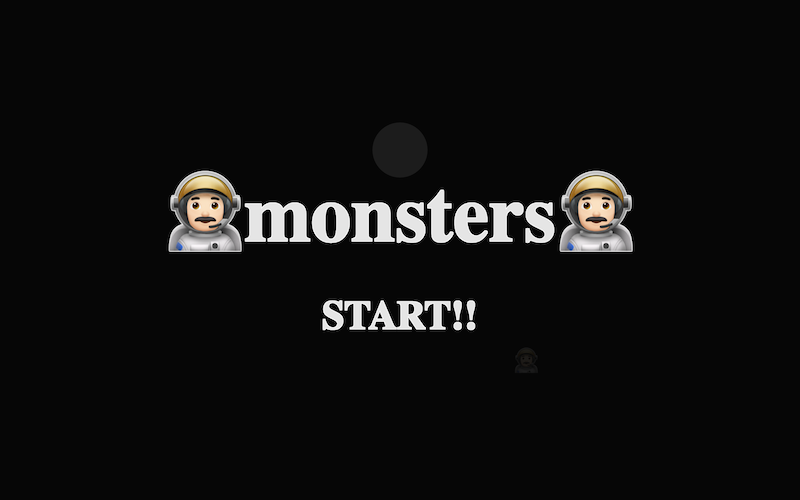
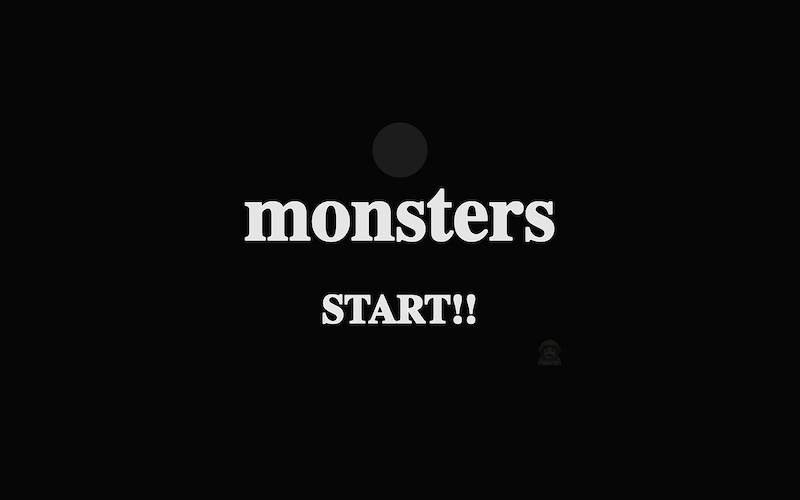
day 77

Changed region(s): [[0.1875, 0.33, 0.8125, 0.51], [0.4062, 0.57, 0.5938, 0.66]]

diff --git a/day077/sketch.js b/day077/sketch.js
@@ -1,5 +1,10 @@
 console.log('ready to sketch');
 
+//game starts
+const start = document.getElementById('start');
+const op = document.querySelector('.op');
+
+
 let backgroundColor = 6;
 let backgroundColorRate = 50;
 let totalScore = 0;
@@ -38,7 +43,10 @@ function createMonsters() {
 
 function setup() {
   createCanvas(windowWidth, windowHeight);
-  createMonsters();
+  start.addEventListener('click', function () {
+    op.classList.add('start');
+    createMonsters();
+  });
 }
 
 function draw() {
@@ -47,43 +55,46 @@ function draw() {
   stroke(6);
   fill(totalScoreColorR, totalScoreColorG, totalScoreColorB);
 
+  text(`Score:${totalScore}`, 20, 50);
+
   // controll player
   player.show();
 
-
-  backgroundColor = 198;
   for (monster of monsters) {
     monster.show();
     monster.move();
   }
 
   // beams to balls
-  // for (beam of beams) {
-  //   beam.shoot();
-  //   for (let i = 0; i < monsters.length; i++) {
-  //     monsters[i].hitBox(beam.x, beam.y);
-  //   }
+
+  for (let i = 0; i < beams.length; i++) {
+    beams[i].shoot(random(255));
+
+    for (let k = 0; k < monsters.length; k++) {
+      monsters[k].hitBox(beams[i].x, beams[i].y);
+    }
+  }
 
   // monsters to player
-  // for (monster of monsters) {
-  //   let d = dist(monster.x, monster.y, mouseX, mouseY)
-  //   if (d < monster.r) {
-  //     playerLife--
-  //     console.log(playerLife);
-  //   }
-  //   if (playerLife < 0) {
-  //     end.classList.add('ended');
-  //     displayScore.innerHTML = `Your Score: ${totalScore}`;
-  //     return dead = true;
-  //   }
+  for (monster of monsters) {
+    let dx = Math.abs(monster.x - mouseX);
+    let dy = Math.abs(monster.y - mouseY);
+    if (dx < monster.size && dy < monster.size) {
+      //   playerLife--
+      //   console.log(playerLife);
+      // }
+      // if (playerLife < 0) {
+      end.classList.add('ended');
+      displayScore.innerHTML = `Your Score: ${totalScore}`;
+      return dead = true;
+    }
+  }
 }
-// }
 
 function mousePressed() {
   beam = new Beam(
     mouseX,
     mouseY,
-    -3
   );
   beams.push(beam);
 }

diff --git a/day077/class.js b/day077/class.js
@@ -26,14 +26,27 @@ class Monster {
     this.y = this.y + this.speedY;
   }
   hitBox(againstX, againstY) {
+
+    // monster against beams 
     let dx = Math.abs(this.x - againstX);
     let dy = Math.abs(this.y - againstY);
+    if (dx < this.size && dy < this.size) {
+      if (this.size < 30) {
+        // didn't work this following code 
+        // monsters.splice(this, 1);
+        // this following code is for temporarily code to debug 
+        this.x = 0;
+        this.y = 0;
+      } else {
+        this.size--;
+        this.speedX += random(-1, 1);
+        this.speedY += random(-1, 1);
+            //   // chenge the background color when beam hit monsters
+            if (!dead) {
+              totalScore++
 
-    if (dx < this.x) {
-      this.x = -this.x;
-    }
-    if (dy < this.y) {
-      this.y = -this.y;
+        }
+      }
     }
     // let d = dist(this.x, this.y, againstX, againstY);
     // if (d < 50) {
@@ -45,31 +58,28 @@ class Monster {
     //   // totalScoreColorR = random(255);
     //   // totalScoreColorG = random(255);
     //   // totalScoreColorB = random(255);
-    //   // if (!dead) {
-    //   //   totalScore++
-    //   // }
+ 
     // }
-    if (monsters.size < 0) {
-      // explode when monsters are attacked over 60 times
-      monsters.splice(i, 1);
+    // if (monsters.size < 0) {
+    //   // explode when monsters are attacked over 60 times
+    //   monsters.splice(i, 1);
 
-      // chenge the background color when beam hit monsters
-      setTimeout(function () {
-        if (backgroundColor <= 0 || backgroundColor >= 255) {
-          backgroundColorRate = backgroundColorRate * -1;
-        }
-        backgroundColor -= backgroundColorRate;
-      }, 1000);
-    }
+
   }
 }
 
 const beams = [];
 class Beam {
-  constructor(x, y, speed) {
+  constructor(x, y) {
     this.x = x;
     this.y = y;
-    this.speed = speed;
+    this.speed = -3;
+  }
+  shoot() {
+    stroke(6);
+    fill(random(255));
+    ellipse(this.x, this.y, 5, 20);
+    this.y += this.speed;
   }
 }
 

diff --git a/day077/index.html b/day077/index.html
@@ -6,7 +6,7 @@
   <meta http-equiv="X-UA-Compatible" content="IE=edge">
   <meta name="viewport" content="width=device-width, initial-scale=1.0">
 
-  <title>1_4_monsters</title>
+  <title>1_5_colorBeam4</title>
 
   <link rel="stylesheet" href="style.css" />
 
@@ -15,9 +15,9 @@
   <!-- title -->
   <meta name="twitter:title" content="kusayari" />
   <!-- day -->
-  <meta name="twitter:description" content="4th JAN / Day 76 - monsters -" />
+  <meta name="twitter:description" content="5th JAN / Day 77 - colorBeam4 -" />
   <!-- url -->
-  <meta name="twitter:image" content="https://nozomiishii.github.io/codeLab/day076/day076.png" />
+  <meta name="twitter:image" content="https://nozomiishii.github.io/codeLab/day077/day077.png" />
   <meta name="twitter:card" content="summary_large_image" />
 
   <script src="../libraries/p5.js"></script>
@@ -27,14 +27,14 @@
 
 <body>
 
-  <div class="op" style="display: none;">
-    <h1>👨🏻🚀monsters👨🏻🚀</h1>
+  <div class="op">
+    <h1>👨🏻🚀colorBeam4👨🏻🚀</h1>
     <h4 id='start'>START!!</h4>
   </div>
-  <!-- <div class="end">
+  <div class="end">
     <h1>👨🏻🚀</h1>
     <p>Your Score:</p>
-  </div> -->
+  </div>
   <!-- write html code here -->
   <script src="class.js"></script>
   <script src="sketch.js"></script>

diff --git a/day077/style.css b/day077/style.css
@@ -24,7 +24,8 @@
   bottom: 0;
   height: 100vh;
   z-index: 100;
-  background: rgba(6, 6, 6, 0.9);
+  background: #E5E5E5;
+  animation: rainbow 4s infinite linear;
   display: flex;
   align-items: center;
   justify-content: center;
@@ -32,8 +33,8 @@
   /*size*/
   font-size: 72px;
   color: #E5E5E5;
-  text-shadow: white 1px 1px 0px, white -1px 1px 0px,
-    white 1px -1px 0px, white -1px -1px 0px;
+  text-shadow: #274097 1px 1px 0px, #E80410 -1px 1px 0px,
+    #F7DC03 1px -1px 0px, #006719 -1px -1px 0px;
 }
 
 @keyframes rainbow {

diff --git a/day077/app.js b/day077/app.js
@@ -1,0 +1,9 @@
+//check
+console.log('js is here');
+
+// write game code from here
+window.addEventListener('touchmove', function (event) {
+  event.preventDefault();
+}, {
+  passive: false
+});

diff --git a/day076/index.html b/day076/index.html
@@ -28,7 +28,7 @@
 <body>
 
   <div class="op">
-    <h1>👨🏻🚀monsters👨🏻🚀</h1>
+    <h1>monsters</h1>
     <h4 id='start'>START!!</h4>
   </div>
   <!-- <div class="end">
